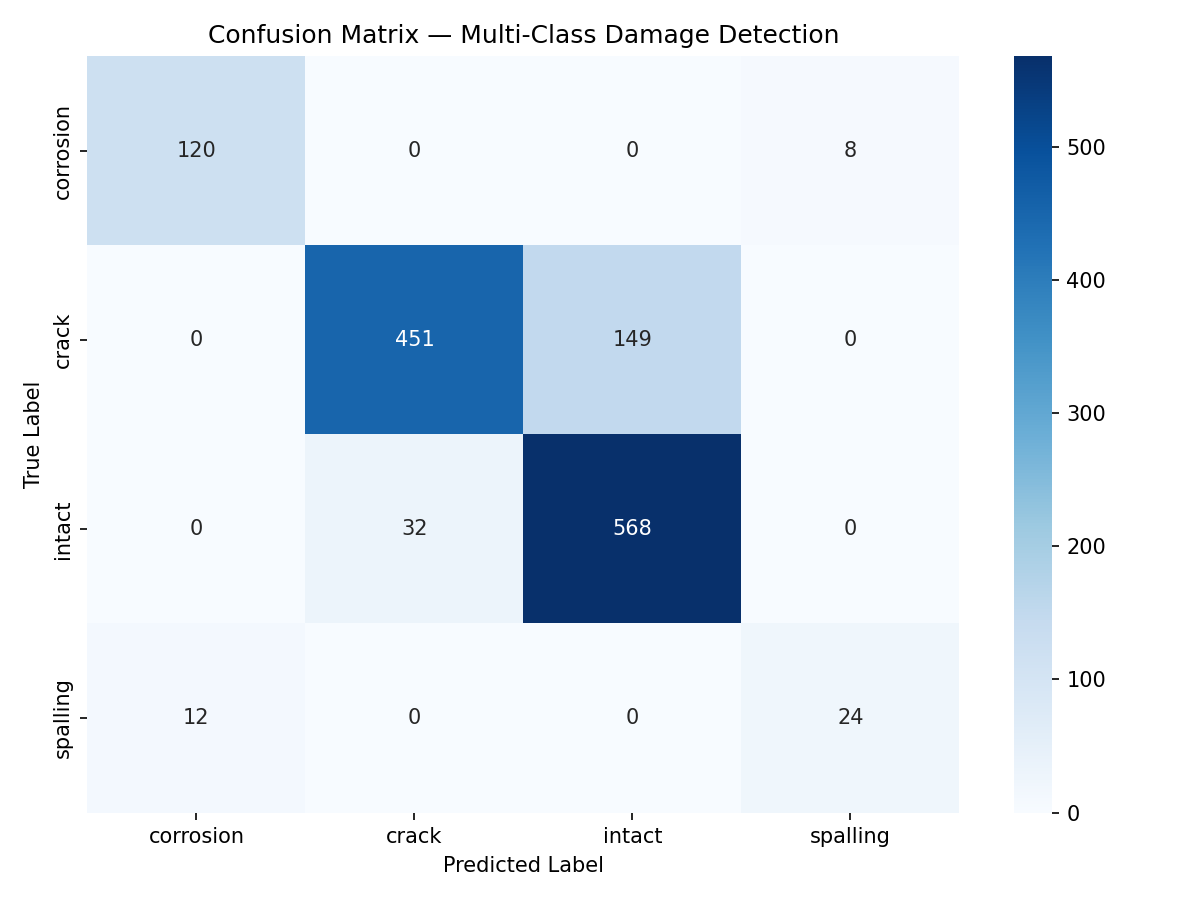
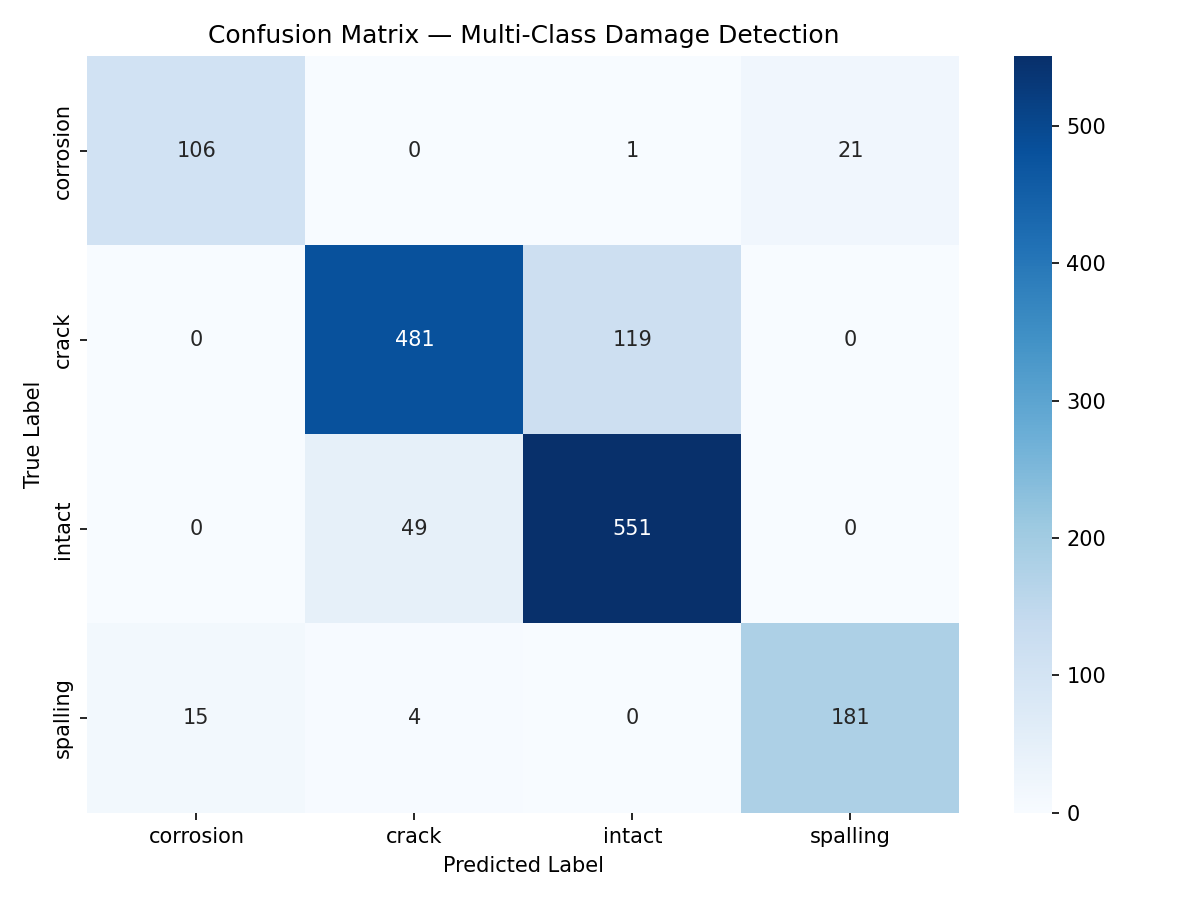
Improved results: 86.32% accuracy, mIoU 0.6878 after augmentation and backbone fine-tuning

diff --git a/augment_spalling.py b/augment_spalling.py
@@ -1,0 +1,59 @@
+"""
+Augment spalling class to fix class imbalance
+Author: Seyed Farhad Abtahi
+"""
+from PIL import Image, ImageEnhance, ImageFilter
+import os, random, shutil
+from pathlib import Path
+
+random.seed(42)
+
+SRC_TRAIN = Path("data/codebrim/train/spalling")
+SRC_VAL   = Path("data/codebrim/val/spalling")
+TARGET_TRAIN = 900
+TARGET_VAL   = 200
+
+def augment_image(img):
+    ops = [
+        lambda x: x.transpose(Image.FLIP_LEFT_RIGHT),
+        lambda x: x.transpose(Image.FLIP_TOP_BOTTOM),
+        lambda x: x.rotate(random.choice([90, 180, 270])),
+        lambda x: x.rotate(random.uniform(-20, 20)),
+        lambda x: ImageEnhance.Brightness(x).enhance(random.uniform(0.7, 1.3)),
+        lambda x: ImageEnhance.Contrast(x).enhance(random.uniform(0.7, 1.3)),
+        lambda x: ImageEnhance.Color(x).enhance(random.uniform(0.8, 1.2)),
+        lambda x: x.filter(ImageFilter.GaussianBlur(radius=random.uniform(0, 1.5))),
+    ]
+    chosen = random.sample(ops, random.randint(2, 4))
+    for op in chosen:
+        img = op(img)
+    return img
+
+def augment_folder(src, target_count):
+    images = list(src.glob("*.jpg")) + list(src.glob("*.png")) + list(src.glob("*.jpeg"))
+    current = len(images)
+    needed  = target_count - current
+    print(f"  {src.name}: {current} → target {target_count} (adding {needed})")
+
+    counter = 0
+    while counter < needed:
+        src_img = random.choice(images)
+        img     = Image.open(src_img).convert("RGB")
+        aug     = augment_image(img)
+        out_name = src / f"aug_{counter:04d}_{src_img.stem}.jpg"
+        aug.save(out_name, quality=90)
+        counter += 1
+
+    print(f"  Done: {len(list(src.glob('*')))} total images")
+
+print("Augmenting train/spalling...")
+augment_folder(SRC_TRAIN, TARGET_TRAIN)
+
+print("Augmenting val/spalling...")
+augment_folder(SRC_VAL, TARGET_VAL)
+
+print("\nFinal counts:")
+for phase in ["train", "val"]:
+    for cls in ["crack", "intact", "corrosion", "spalling"]:
+        p = Path("data/codebrim") / phase / cls
+        print(f"  {phase}/{cls}: {len(list(p.glob('*')))}")

diff --git a/train_segmentation.py b/train_segmentation.py
@@ -26,7 +26,7 @@ RESULTS_DIR = "results"
 NUM_CLASSES = 3
 BATCH_SIZE  = 4
 NUM_EPOCHS  = 20
-LR          = 1e-4
+LR          = 5e-5
 IMG_SIZE    = 256
 DEVICE      = torch.device("cpu")
 
@@ -85,7 +85,7 @@ model.aux_classifier[4] = nn.Conv2d(256, NUM_CLASSES, kernel_size=1)
 model = model.to(DEVICE)
 
 for name, param in model.named_parameters():
-    if "classifier" in name or "aux_classifier" in name:
+    if "layer4" in name or "classifier" in name or "aux_classifier" in name:
         param.requires_grad = True
     else:
         param.requires_grad = False
